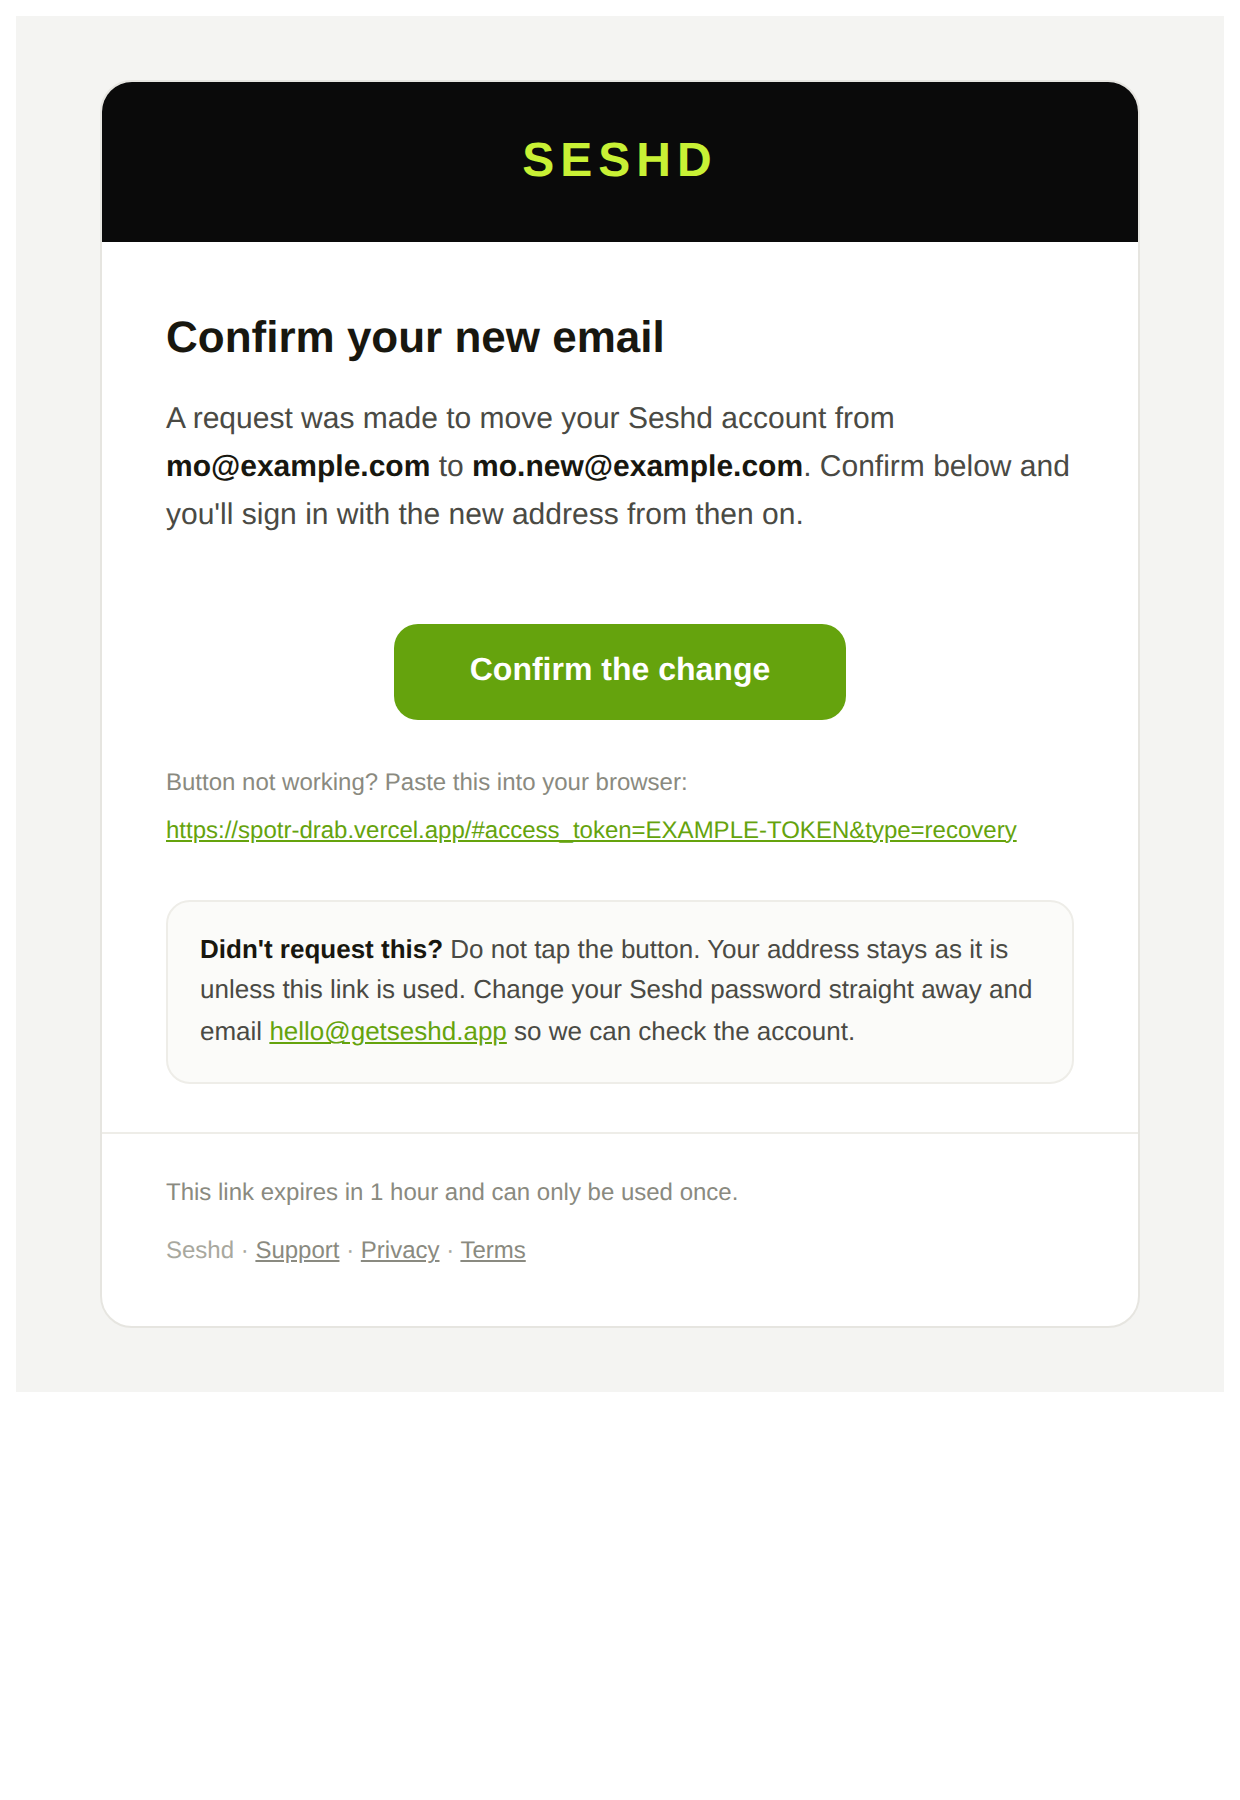
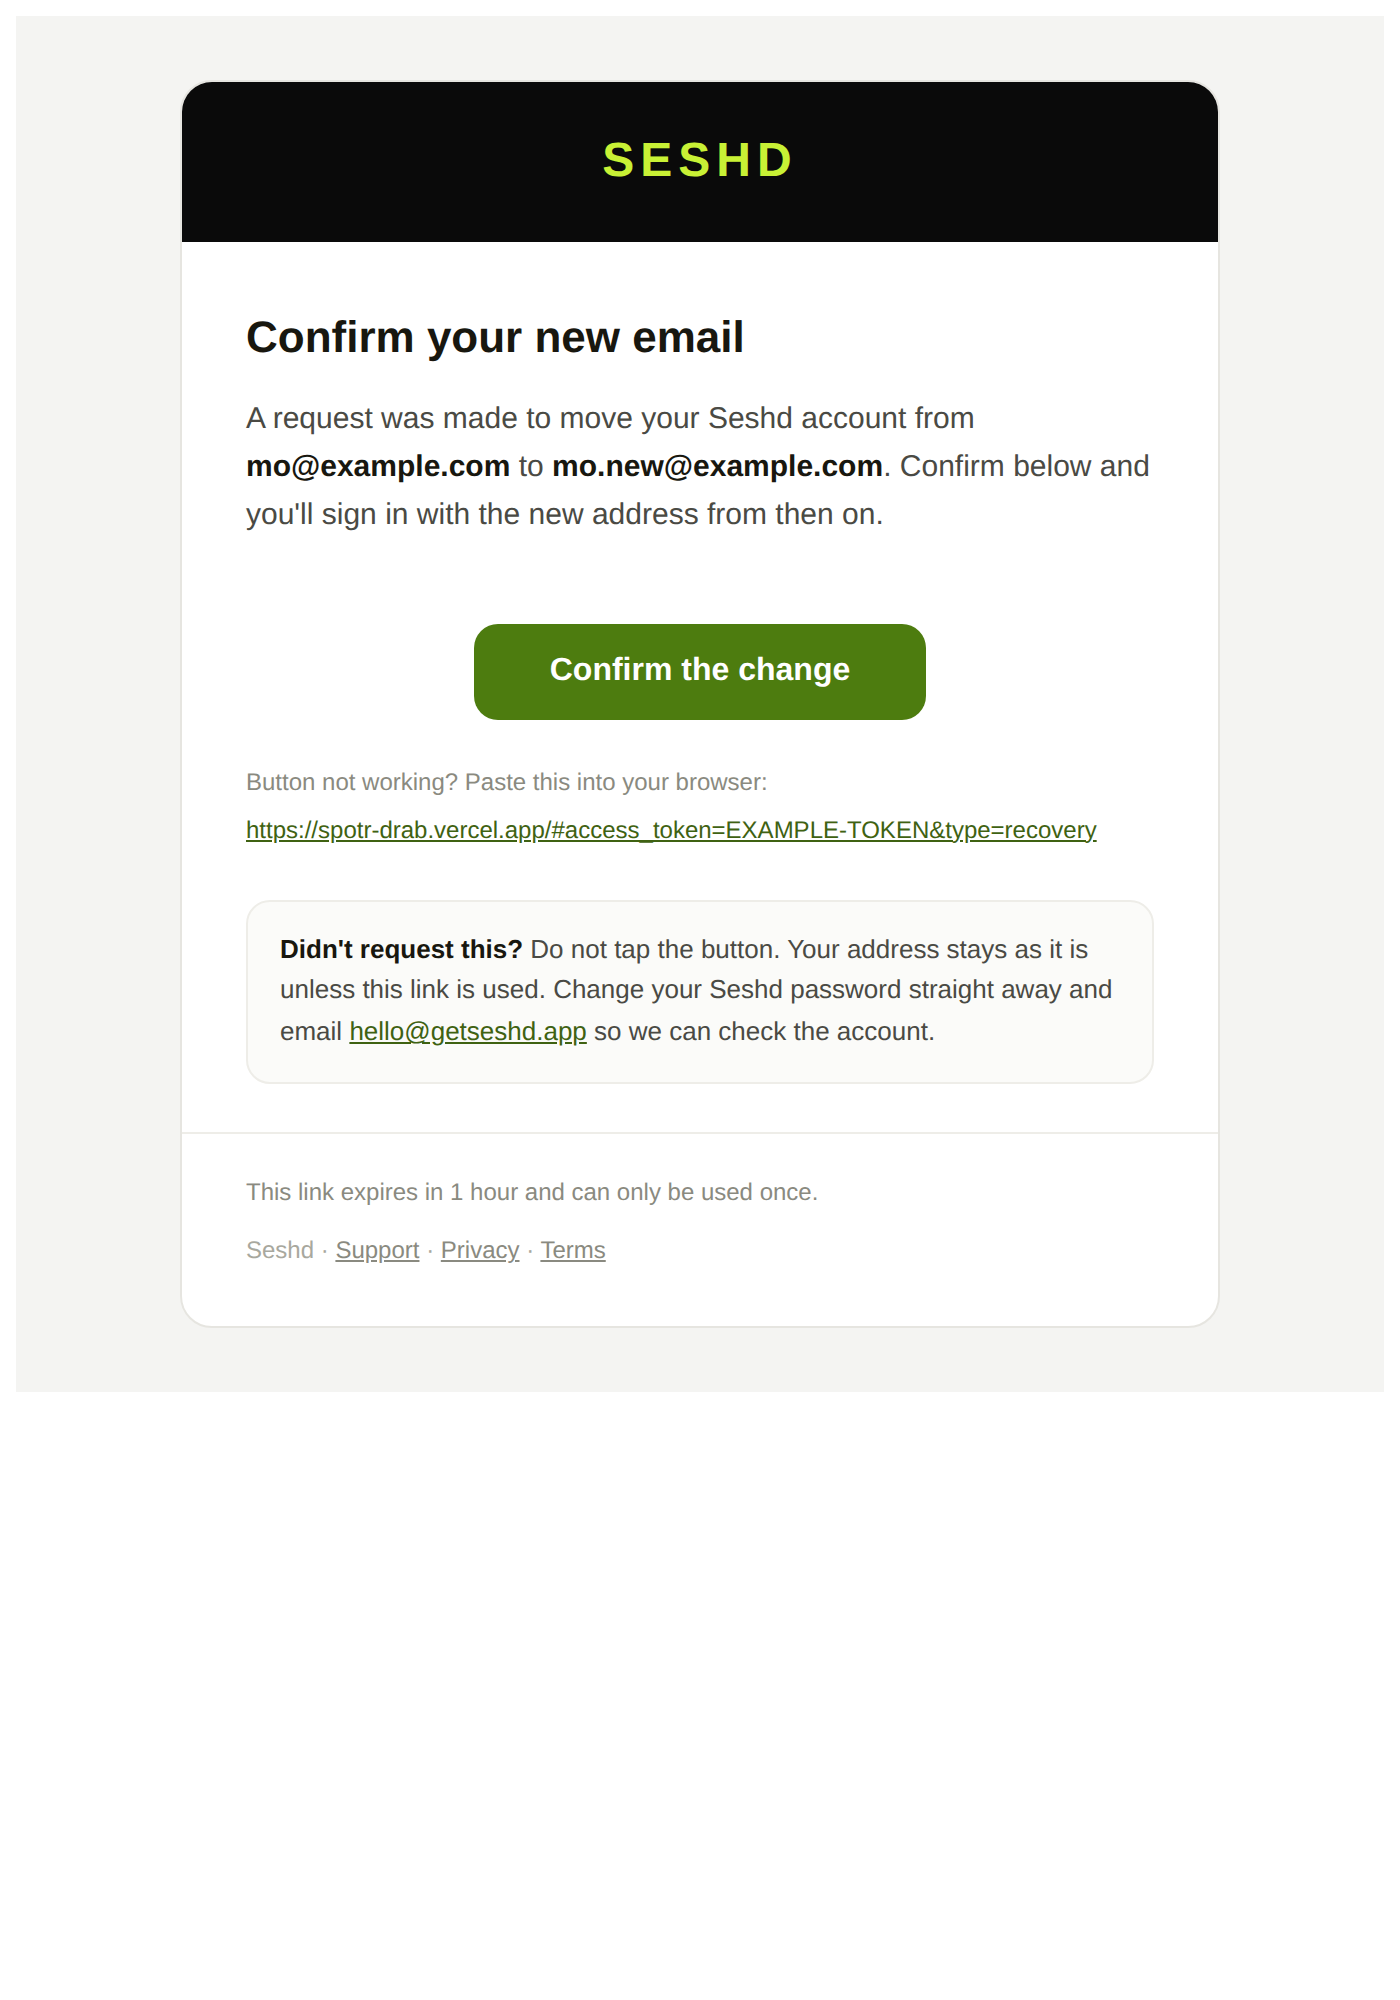
Email templates: the CTA failed AA before anyone had pasted it in
Checked these before writing install instructions for them, and the button was
white on #65a30d -- 3.09:1. The label is 16px bold, which is NOT WCAG "large
text" (that threshold is 18.66px bold), so it needs the full 4.5:1, not 3.0.
This is the reset-password CTA: the single most important button in the account
recovery flow, in the one surface where there is no app to fall back to.

Same colour appeared a second way, as accent-as-TEXT on the white card (the raw
fallback link, plus a mailto in change-email) -- also 3.09:1. That is exactly
the split CLAUDE.md already documents for the app: accent is a FILL, accentInk
is TEXT, and they cannot be the same value on a light surface. An email has no
theme toggle and no dark-mode token, so the light values are the only ones that
ever render.

Fills -> #4d7c0f (white on it 4.99:1, still the brand lime and not olive).
Accent text -> #3f6212, the app's own accentInk (7.08:1 on white).
The volt wordmark in the dark header band is untouched and correct -- volt on
near-black is the dark theme's own high-contrast pairing.

Caught during the edit: change-email.html has TWO accent links, not one. The
count assertion failed and stopped before writing, so that file was left
unmodified rather than half-edited -- the documented "replace on a unique
string with a count assert" rule doing its job.

Previews regenerated (they showed the old green, so anyone checking them would
[…]

Changed region(s): [[0.0613, 0.0311, 0.9194, 0.7156]]

diff --git a/supabase/email-templates/change-email.html b/supabase/email-templates/change-email.html
@@ -32,7 +32,7 @@
           <td align="center" style="padding:20px 32px 8px 32px;">
             <table role="presentation" cellpadding="0" cellspacing="0" border="0">
               <tr>
-                <td align="center" bgcolor="#65a30d" style="border-radius:12px;">
+                <td align="center" bgcolor="#4d7c0f" style="border-radius:12px;">
                   <a href="{{ .ConfirmationURL }}" target="_blank"
                      style="display:inline-block;padding:15px 38px;font-family:-apple-system,BlinkMacSystemFont,'Segoe UI',Roboto,Helvetica,Arial,sans-serif;font-size:16px;font-weight:700;color:#ffffff;text-decoration:none;border-radius:12px;">
                     Confirm the change
@@ -50,7 +50,7 @@
               Button not working? Paste this into your browser:
             </p>
             <p style="margin:0;font-size:12px;line-height:1.5;word-break:break-all;">
-              <a href="{{ .ConfirmationURL }}" style="color:#65a30d;text-decoration:underline;">{{ .ConfirmationURL }}</a>
+              <a href="{{ .ConfirmationURL }}" style="color:#3f6212;text-decoration:underline;">{{ .ConfirmationURL }}</a>
             </p>
           </td>
         </tr>
@@ -62,7 +62,7 @@
               <tr>
                 <td style="padding:14px 16px;">
                   <p style="margin:0;font-size:13px;line-height:1.6;color:#4a4a44;">
-                    <strong style="color:#18170f;">Didn't request this?</strong> Do not tap the button. Your address stays as it is unless this link is used. Change your Seshd password straight away and email <a href="mailto:hello@getseshd.app" style="color:#65a30d;text-decoration:underline;">hello@getseshd.app</a> so we can check the account.
+                    <strong style="color:#18170f;">Didn't request this?</strong> Do not tap the button. Your address stays as it is unless this link is used. Change your Seshd password straight away and email <a href="mailto:hello@getseshd.app" style="color:#3f6212;text-decoration:underline;">hello@getseshd.app</a> so we can check the account.
                   </p>
                 </td>
               </tr>

diff --git a/supabase/email-templates/reset-password.html b/supabase/email-templates/reset-password.html
@@ -32,7 +32,7 @@
           <td align="center" style="padding:24px 32px 8px 32px;">
             <table role="presentation" cellpadding="0" cellspacing="0" border="0">
               <tr>
-                <td align="center" bgcolor="#65a30d" style="border-radius:12px;">
+                <td align="center" bgcolor="#4d7c0f" style="border-radius:12px;">
                   <a href="{{ .ConfirmationURL }}" target="_blank"
                      style="display:inline-block;padding:15px 38px;font-family:-apple-system,BlinkMacSystemFont,'Segoe UI',Roboto,Helvetica,Arial,sans-serif;font-size:16px;font-weight:700;color:#ffffff;text-decoration:none;border-radius:12px;">
                     Set a new password
@@ -50,7 +50,7 @@
               Button not working? Paste this into your browser:
             </p>
             <p style="margin:0;font-size:12px;line-height:1.5;word-break:break-all;">
-              <a href="{{ .ConfirmationURL }}" style="color:#65a30d;text-decoration:underline;">{{ .ConfirmationURL }}</a>
+              <a href="{{ .ConfirmationURL }}" style="color:#3f6212;text-decoration:underline;">{{ .ConfirmationURL }}</a>
             </p>
           </td>
         </tr>

diff --git a/supabase/email-templates/confirm-signup.html b/supabase/email-templates/confirm-signup.html
@@ -30,7 +30,7 @@
           <td align="center" style="padding:24px 32px 8px 32px;">
             <table role="presentation" cellpadding="0" cellspacing="0" border="0">
               <tr>
-                <td align="center" bgcolor="#65a30d" style="border-radius:12px;">
+                <td align="center" bgcolor="#4d7c0f" style="border-radius:12px;">
                   <a href="{{ .ConfirmationURL }}" target="_blank"
                      style="display:inline-block;padding:15px 38px;font-family:-apple-system,BlinkMacSystemFont,'Segoe UI',Roboto,Helvetica,Arial,sans-serif;font-size:16px;font-weight:700;color:#ffffff;text-decoration:none;border-radius:12px;">
                     Confirm my email
@@ -48,7 +48,7 @@
               Button not working? Paste this into your browser:
             </p>
             <p style="margin:0;font-size:12px;line-height:1.5;word-break:break-all;">
-              <a href="{{ .ConfirmationURL }}" style="color:#65a30d;text-decoration:underline;">{{ .ConfirmationURL }}</a>
+              <a href="{{ .ConfirmationURL }}" style="color:#3f6212;text-decoration:underline;">{{ .ConfirmationURL }}</a>
             </p>
           </td>
         </tr>

diff --git a/supabase/email-templates/_shared.md b/supabase/email-templates/_shared.md
@@ -43,6 +43,15 @@ Without it the From line reads as a bare `hello@getseshd.app`, which is the sing
   what stops the email reading like a phish.
 - **Expiry is stated.** "This link expires in 1 hour" removes the main support question and tells
   an attacker's victim that a stale link is harmless.
+- **The button is `#4d7c0f`, NOT the app's `#65a30d` accent — do not "correct" it back.** White
+  on `#65a30d` measures **3.09:1**, and the button label is 16px bold, which is NOT WCAG "large
+  text" (that starts at 18.66px bold), so it needs the full 4.5:1. `#4d7c0f` is 4.99:1 and still
+  reads as the brand lime rather than olive. Same rule for the raw fallback link and the mailto,
+  which are accent-as-TEXT and use `#3f6212` (the app's `accentInk`, 7.08:1 on the white card).
+  This is the app's own documented `accent`-is-a-fill / `accentInk`-is-text split, applied here —
+  an email gets no theme toggle and no dark-mode token, so the light-theme values are the only
+  ones that ever render. The volt wordmark in the dark header band is fine and stays: volt on
+  near-black is the dark theme's own high-contrast pairing.
 - No tracking pixels, no remote images, no web fonts — the logo is CSS-drawn text. Remote assets
   are blocked by default in most clients and a broken image box looks worse than no image.
 
